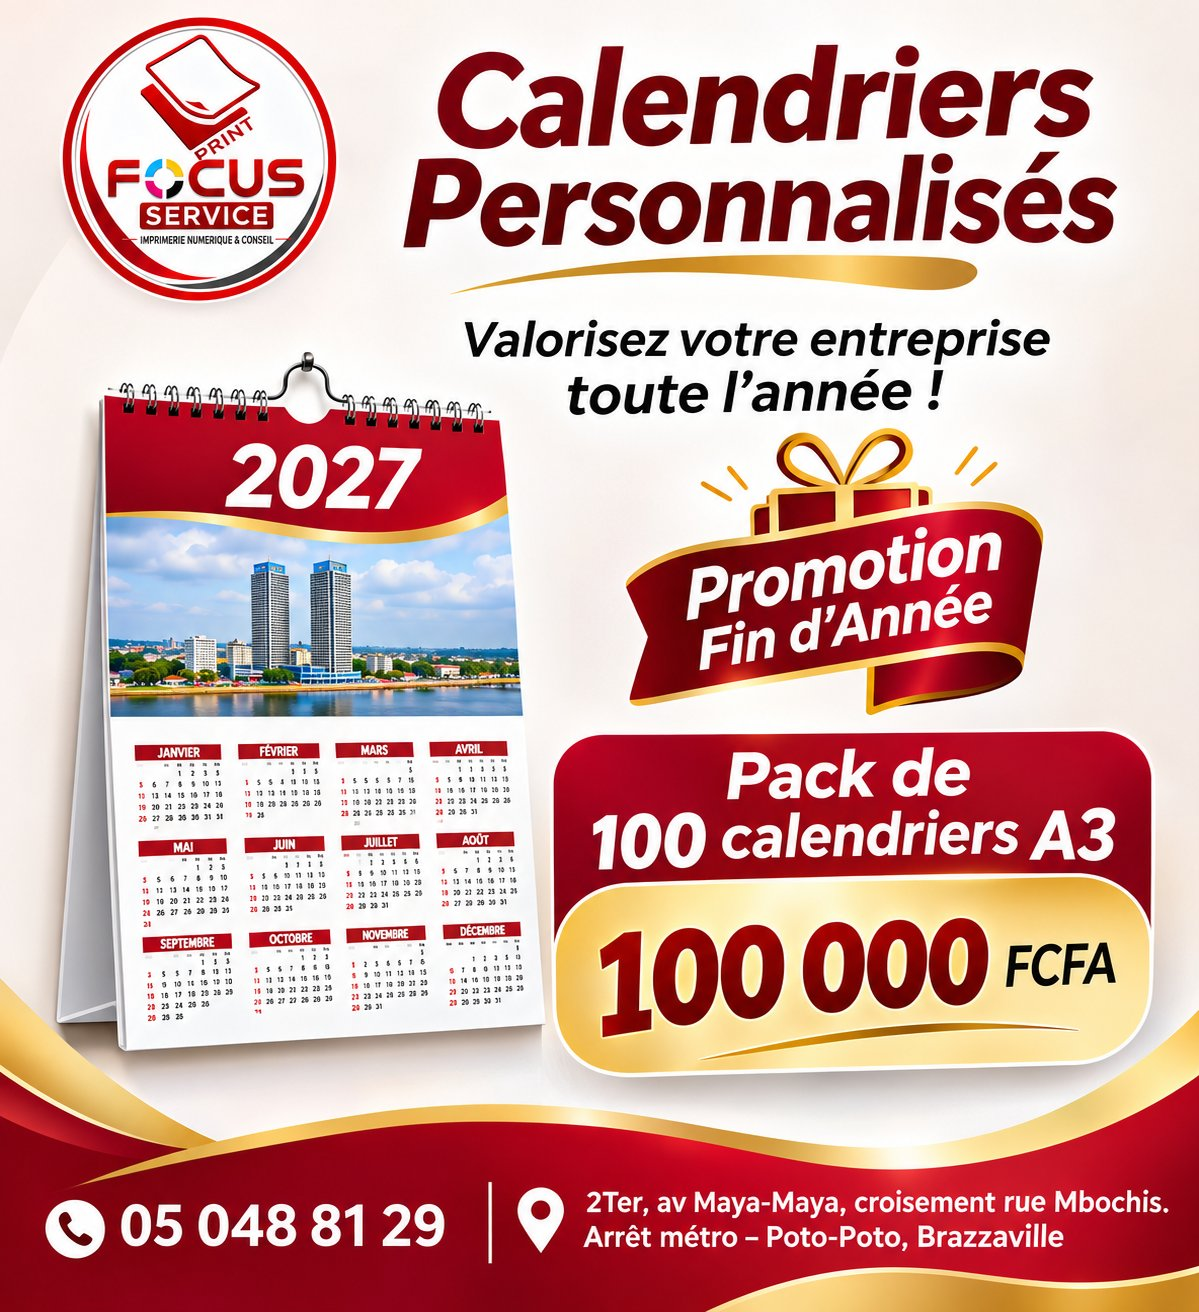
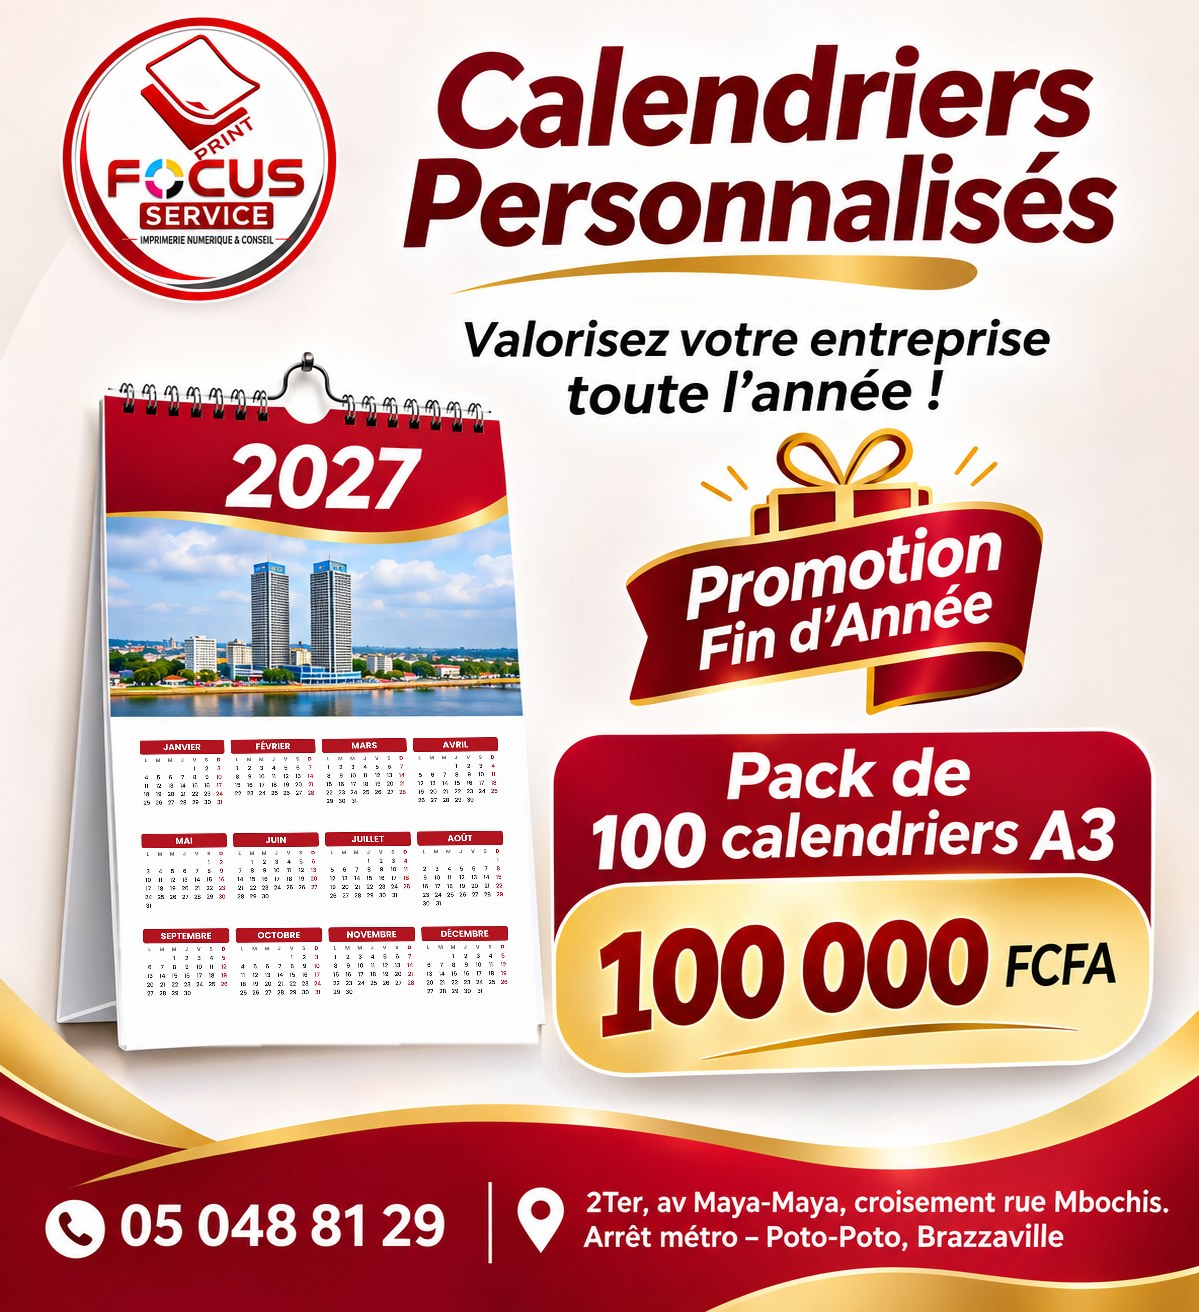
Affiches calendriers : vrais calendriers 2027 lisibles (mois et dates corrigés)
Claude-Session: https://claude.ai/code/session_01W7vK8y2NV5Qq8n1cZQc8jW

Changed region(s): [[0.0926, 0.5625, 0.4629, 0.8125]]

diff --git a/index.html b/index.html
@@ -113,7 +113,7 @@ body{padding-bottom:70px}
 <h1>Votre communication visuelle, de la création à l'impression.</h1>
 <p>Nous accompagnons les entreprises dans la conception de leur identité, la réalisation de leurs supports et la personnalisation de leurs articles.</p>
 <a class="btn" href="https://wa.me/242050488129?text=Bonjour%2C%20je%20souhaite%20un%20devis%20d%27impression.">Demander un devis</a><a class="btn alt" href="#tarifs">Voir nos tarifs</a>
-</div><aside id="offres" class="hr" aria-label="Offres du moment"><p class="eyebrow">Offres du moment</p><div class="sprow"><figure class="sp"><a href="img/calendrier-pack100.jpg" target="_blank" rel="noopener"><img src="img/calendrier-pack100.jpg" alt="Affiche Calendriers personnalisés 2027 : pack de 100 calendriers A3 à 100 000 FCFA" width="1199" height="1312"></a><figcaption><strong>Calendriers personnalisés 2027</strong><span>Promotion fin d'année : pack de 100 calendriers A3 à 100 000 F</span><a class="btn" href="https://wa.me/242050488129?text=Bonjour%2C%20je%20souhaite%20commander%20le%20pack%20de%20100%20calendriers%20A3%20personnalis%C3%A9s%20%C3%A0%20100%20000%20FCFA.">Commander sur WhatsApp</a></figcaption></figure><figure class="sp"><a href="img/calendrier-unite-pack100.jpg" target="_blank" rel="noopener"><img src="img/calendrier-unite-pack100.jpg" alt="Affiche Calendriers personnalisés : calendrier A3 à 1 500 FCFA l'unité ou pack de 100 à 100 000 FCFA" loading="lazy" width="1199" height="1312"></a><figcaption><strong>Calendrier A3 à l'unité ou en pack</strong><span>1 500 F l'unité · Pack de 100 : 100 000 F</span><a class="btn" href="https://wa.me/242050488129?text=Bonjour%2C%20je%20souhaite%20commander%20des%20calendriers%20A3%20personnalis%C3%A9s%202027.">Commander sur WhatsApp</a></figcaption></figure></div><div class="cnav"><button type="button" id="cprev" aria-label="Offre précédente">‹</button><div class="dots" id="cdots"></div><button type="button" id="cnext" aria-label="Offre suivante">›</button></div></aside></div></div></header>
+</div><aside id="offres" class="hr" aria-label="Offres du moment"><p class="eyebrow">Offres du moment</p><div class="sprow"><figure class="sp"><a href="img/calendrier-pack100.jpg?v=2" target="_blank" rel="noopener"><img src="img/calendrier-pack100.jpg?v=2" alt="Affiche Calendriers personnalisés 2027 : pack de 100 calendriers A3 à 100 000 FCFA" width="1199" height="1312"></a><figcaption><strong>Calendriers personnalisés 2027</strong><span>Promotion fin d'année : pack de 100 calendriers A3 à 100 000 F</span><a class="btn" href="https://wa.me/242050488129?text=Bonjour%2C%20je%20souhaite%20commander%20le%20pack%20de%20100%20calendriers%20A3%20personnalis%C3%A9s%20%C3%A0%20100%20000%20FCFA.">Commander sur WhatsApp</a></figcaption></figure><figure class="sp"><a href="img/calendrier-unite-pack100.jpg?v=2" target="_blank" rel="noopener"><img src="img/calendrier-unite-pack100.jpg?v=2" alt="Affiche Calendriers personnalisés : calendrier A3 à 1 500 FCFA l'unité ou pack de 100 à 100 000 FCFA" loading="lazy" width="1199" height="1312"></a><figcaption><strong>Calendrier A3 à l'unité ou en pack</strong><span>1 500 F l'unité · Pack de 100 : 100 000 F</span><a class="btn" href="https://wa.me/242050488129?text=Bonjour%2C%20je%20souhaite%20commander%20des%20calendriers%20A3%20personnalis%C3%A9s%202027.">Commander sur WhatsApp</a></figcaption></figure></div><div class="cnav"><button type="button" id="cprev" aria-label="Offre précédente">‹</button><div class="dots" id="cdots"></div><button type="button" id="cnext" aria-label="Offre suivante">›</button></div></aside></div></div></header>
 
 <section><div class="wrap">
 <h2>Nos packs de communication</h2>
